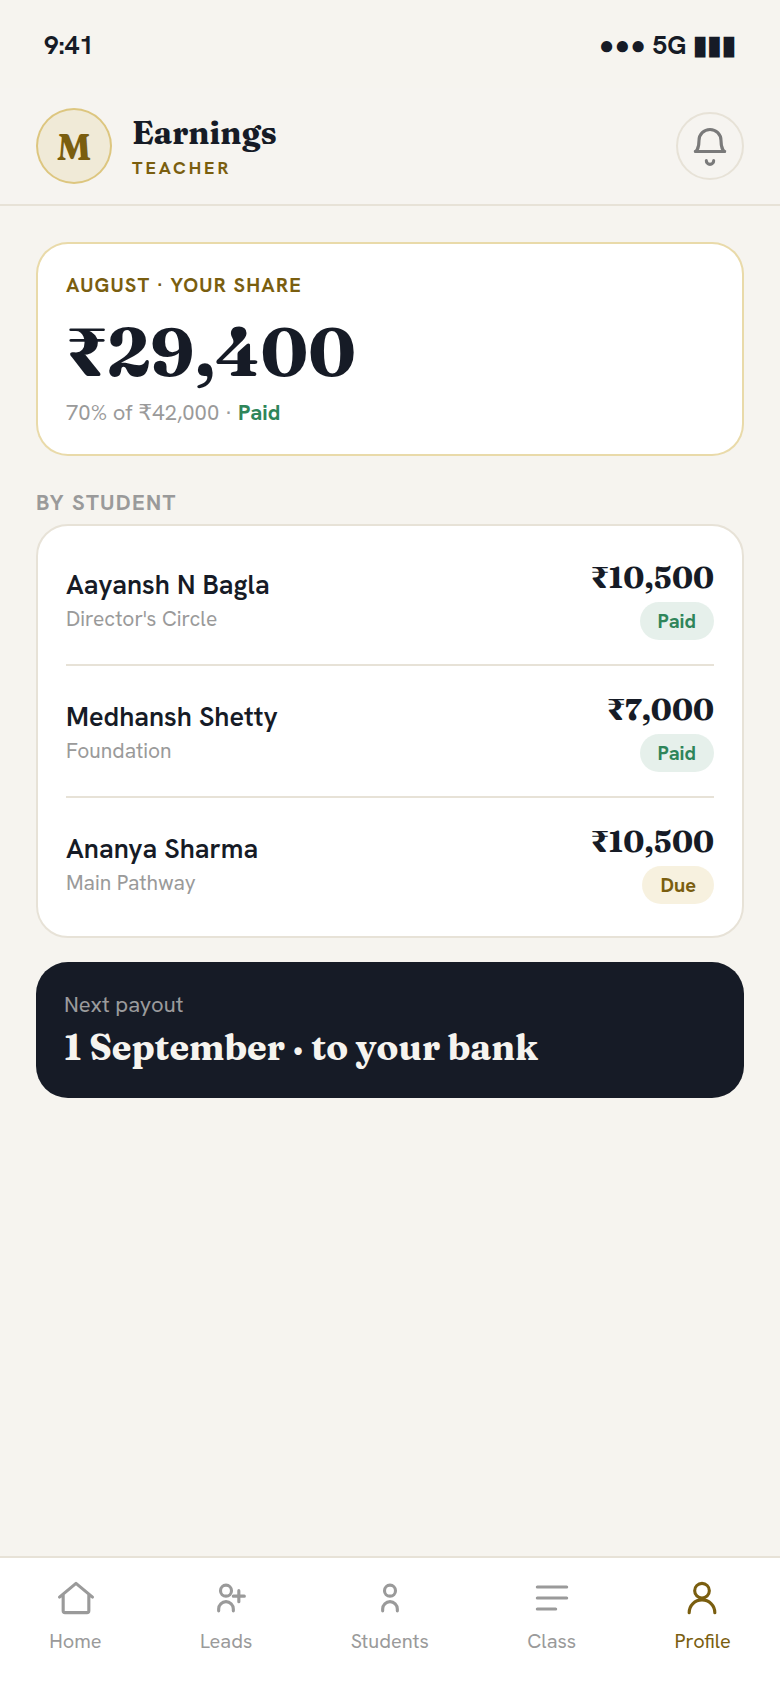
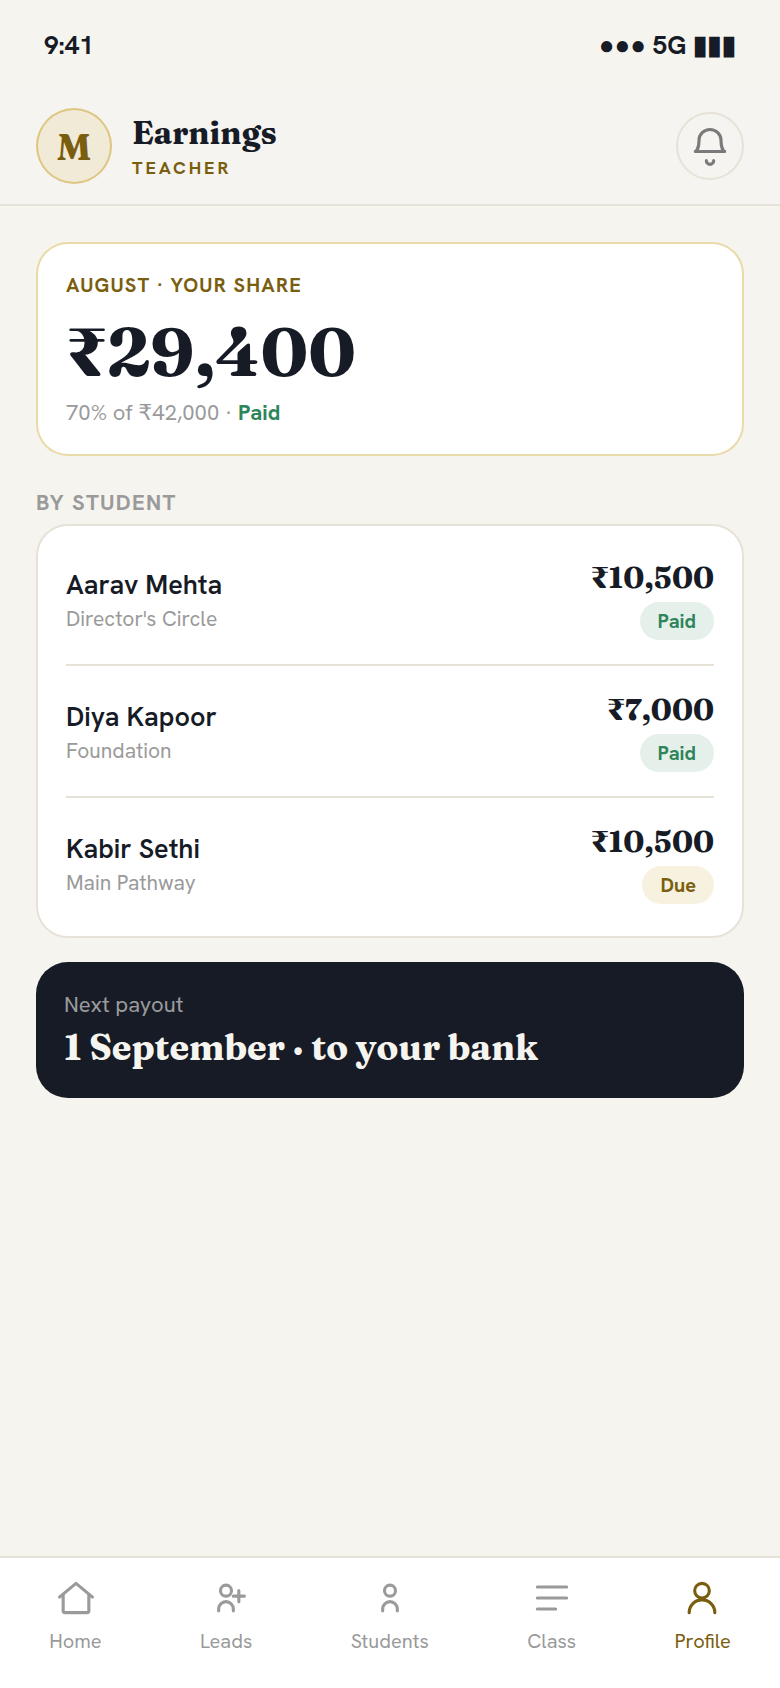
Teach With Us mockups: fictional student names + add a parent-view screen
- Replaced real student names in the earnings mockup with fictional ones
  (Aarav Mehta, Diya Kapoor, Kabir Sethi); the planner student is now "Aarav".
- Added a fourth phone screen showing the PARENT portal (child switcher, this
  month's plan, next class, fees, last class update) so applicants see the
  family-facing side too. Showcase grid now fits four screens.

Claude-Session: https://claude.ai/code/session_01YNVi6HKCUGJJWTqqANwDZB

Changed region(s): [[0.0923, 0.4005, 0.3692, 0.4313], [0.0923, 0.4929, 0.3385, 0.5237], [0.1231, 0.3389, 0.3385, 0.3697]]

diff --git a/components/teach/TeachPlatform.tsx b/components/teach/TeachPlatform.tsx
@@ -91,8 +91,8 @@ export function TeachPlatform() {
         {/* See it in action — real portal screens */}
         <div className="mt-16">
           <h3 className="font-display text-2xl font-semibold">See it in action</h3>
-          <p className="mt-2 max-w-xl text-sm leading-relaxed text-paper/65">Actual screens from the teacher app — this is what you&apos;ll use every day.</p>
-          <div className="mt-8 grid gap-8 sm:grid-cols-3">
+          <p className="mt-2 max-w-xl text-sm leading-relaxed text-paper/65">Real screens from the app — what you and your students&apos; families use every day.</p>
+          <div className="mt-8 grid gap-8 sm:grid-cols-2 lg:grid-cols-4">
             {SHOTS.map((s) => (
               <figure key={s.src} className="group">
                 <div className="mx-auto max-w-[240px] rounded-[2rem] border border-white/12 bg-black/60 p-2 shadow-[0_30px_60px_-30px_rgba(0,0,0,0.8)] transition-transform group-hover:-translate-y-1">
@@ -120,4 +120,5 @@ const SHOTS = [
   { src: "/images/teach/dashboard.png", title: "Your dashboard", desc: "Students, classes and earnings in one glance.", alt: "Musicphonetics teacher dashboard" },
   { src: "/images/teach/planner.png", title: "AI lesson planner", desc: "A full month of 8 classes in seconds.", alt: "Musicphonetics AI lesson planner generating an 8-class plan" },
   { src: "/images/teach/earnings.png", title: "Live earnings", desc: "Always know exactly what you'll be paid.", alt: "Musicphonetics teacher earnings and payouts" },
+  { src: "/images/teach/parent.png", title: "The parent view", desc: "Families see progress, plans and fees — so your work shines.", alt: "Musicphonetics parent portal showing a child's learning journey" },
 ];
